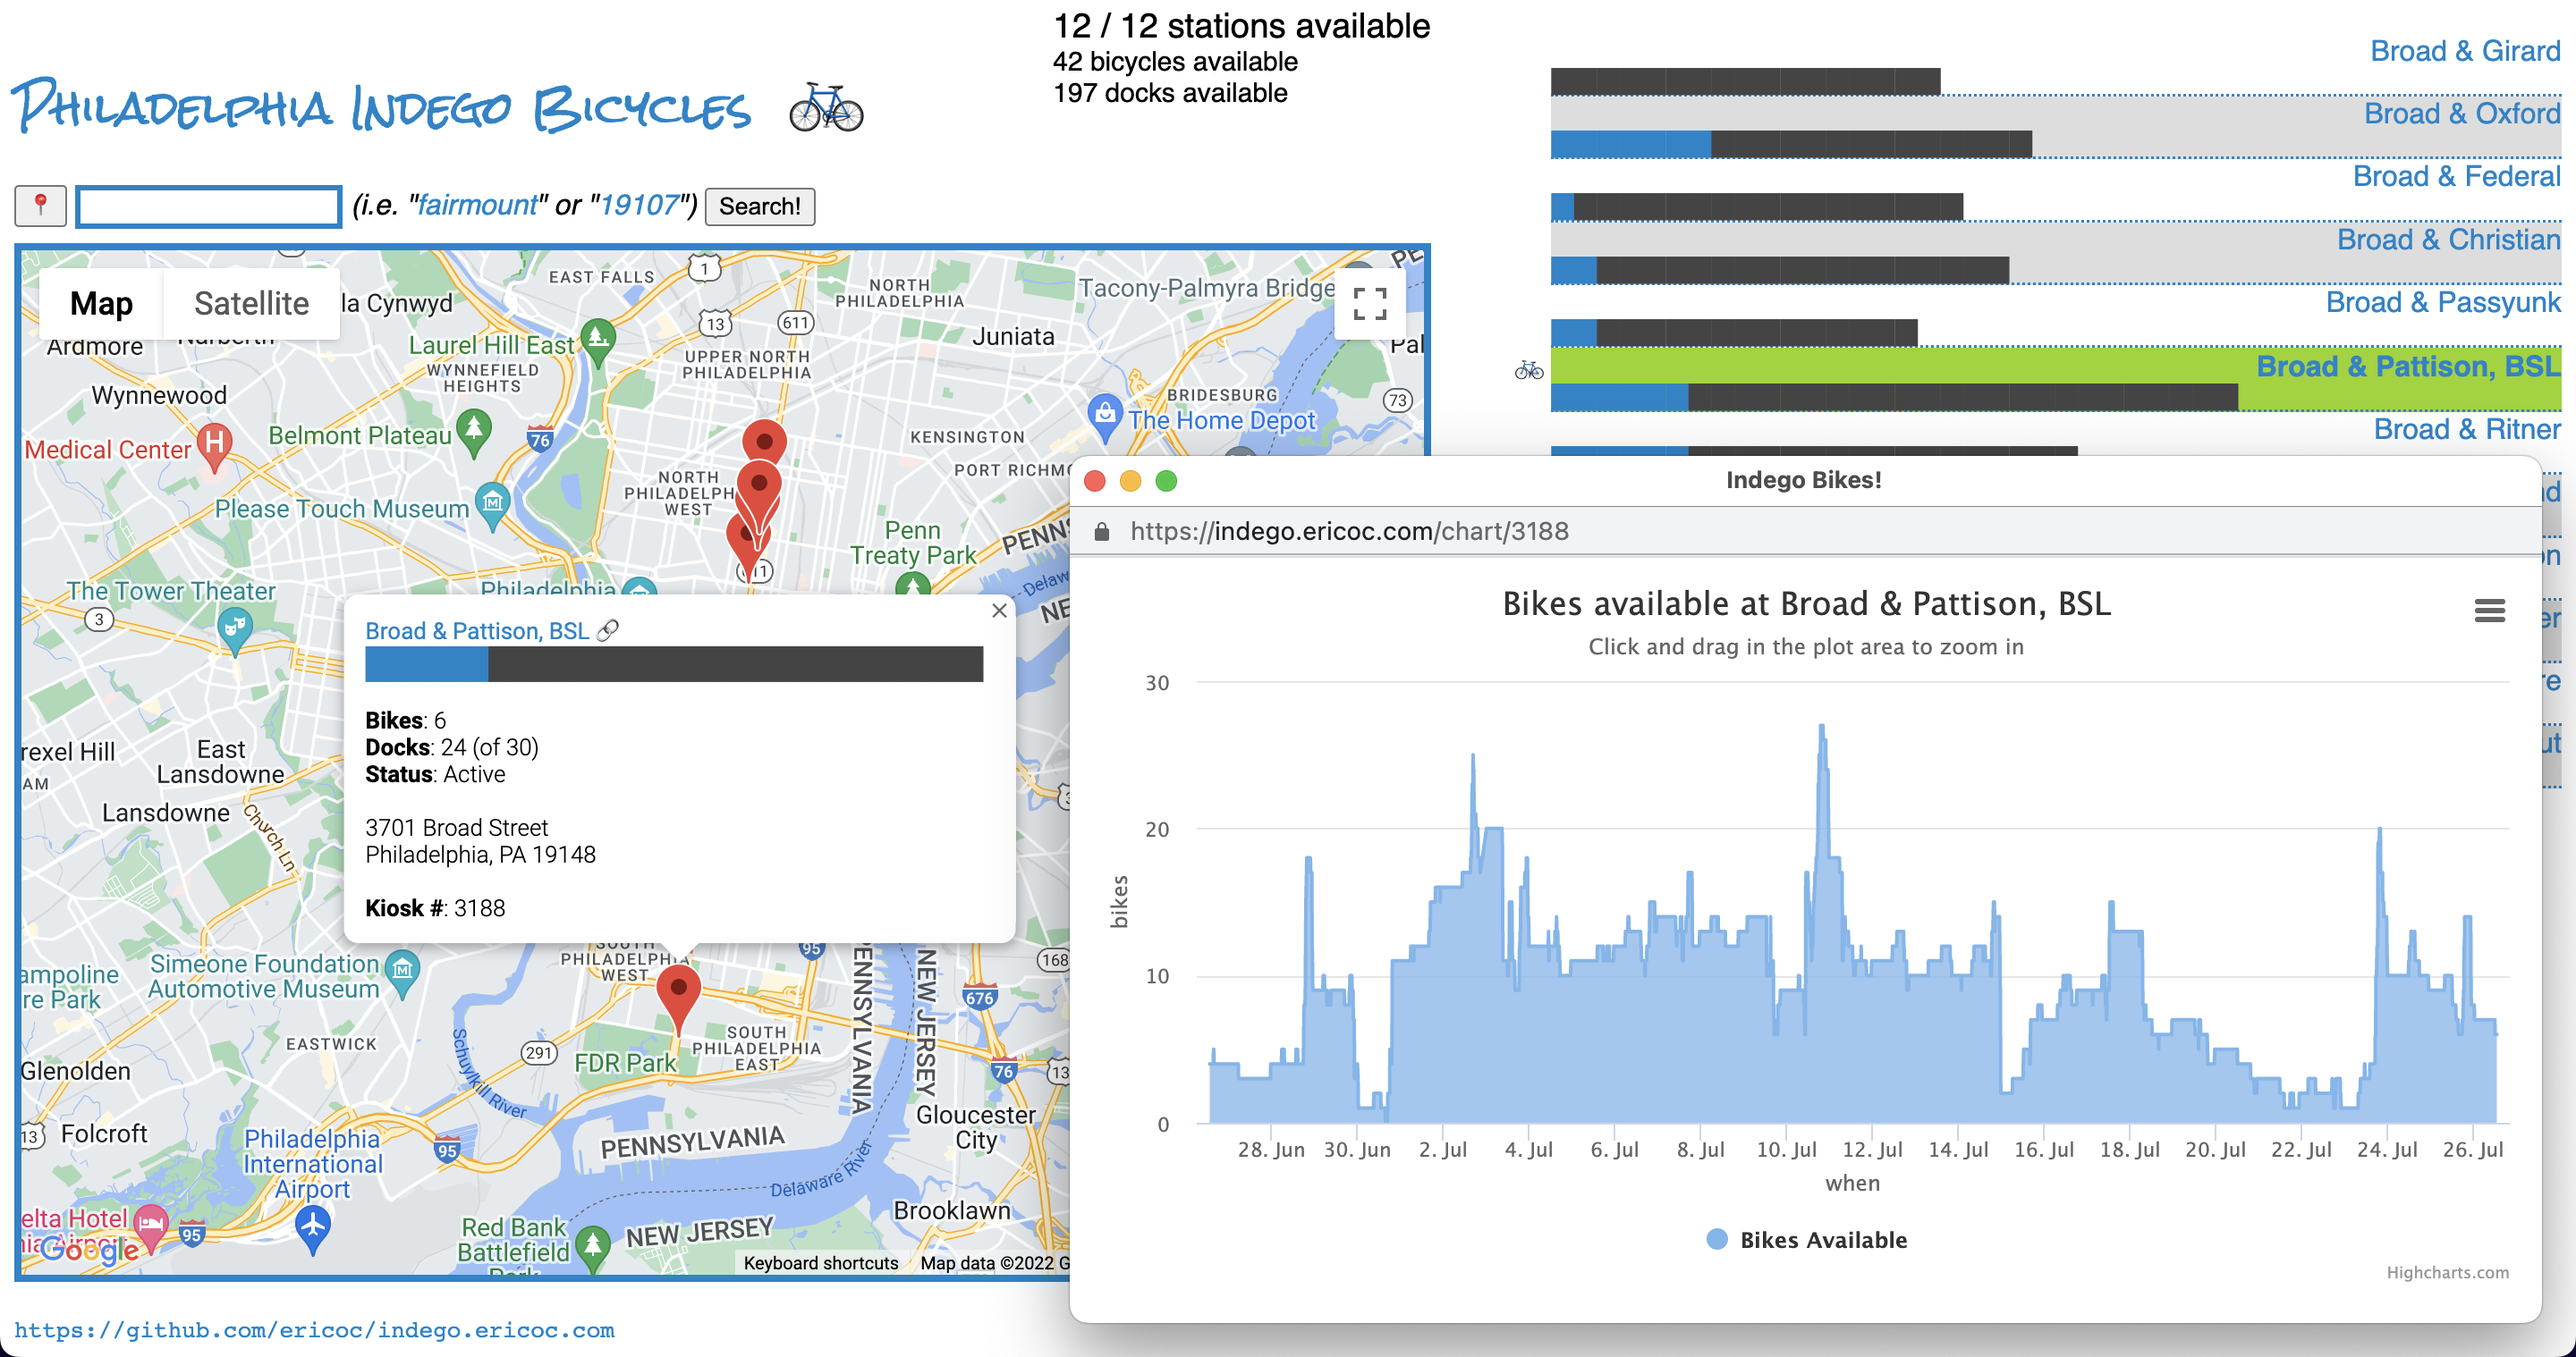
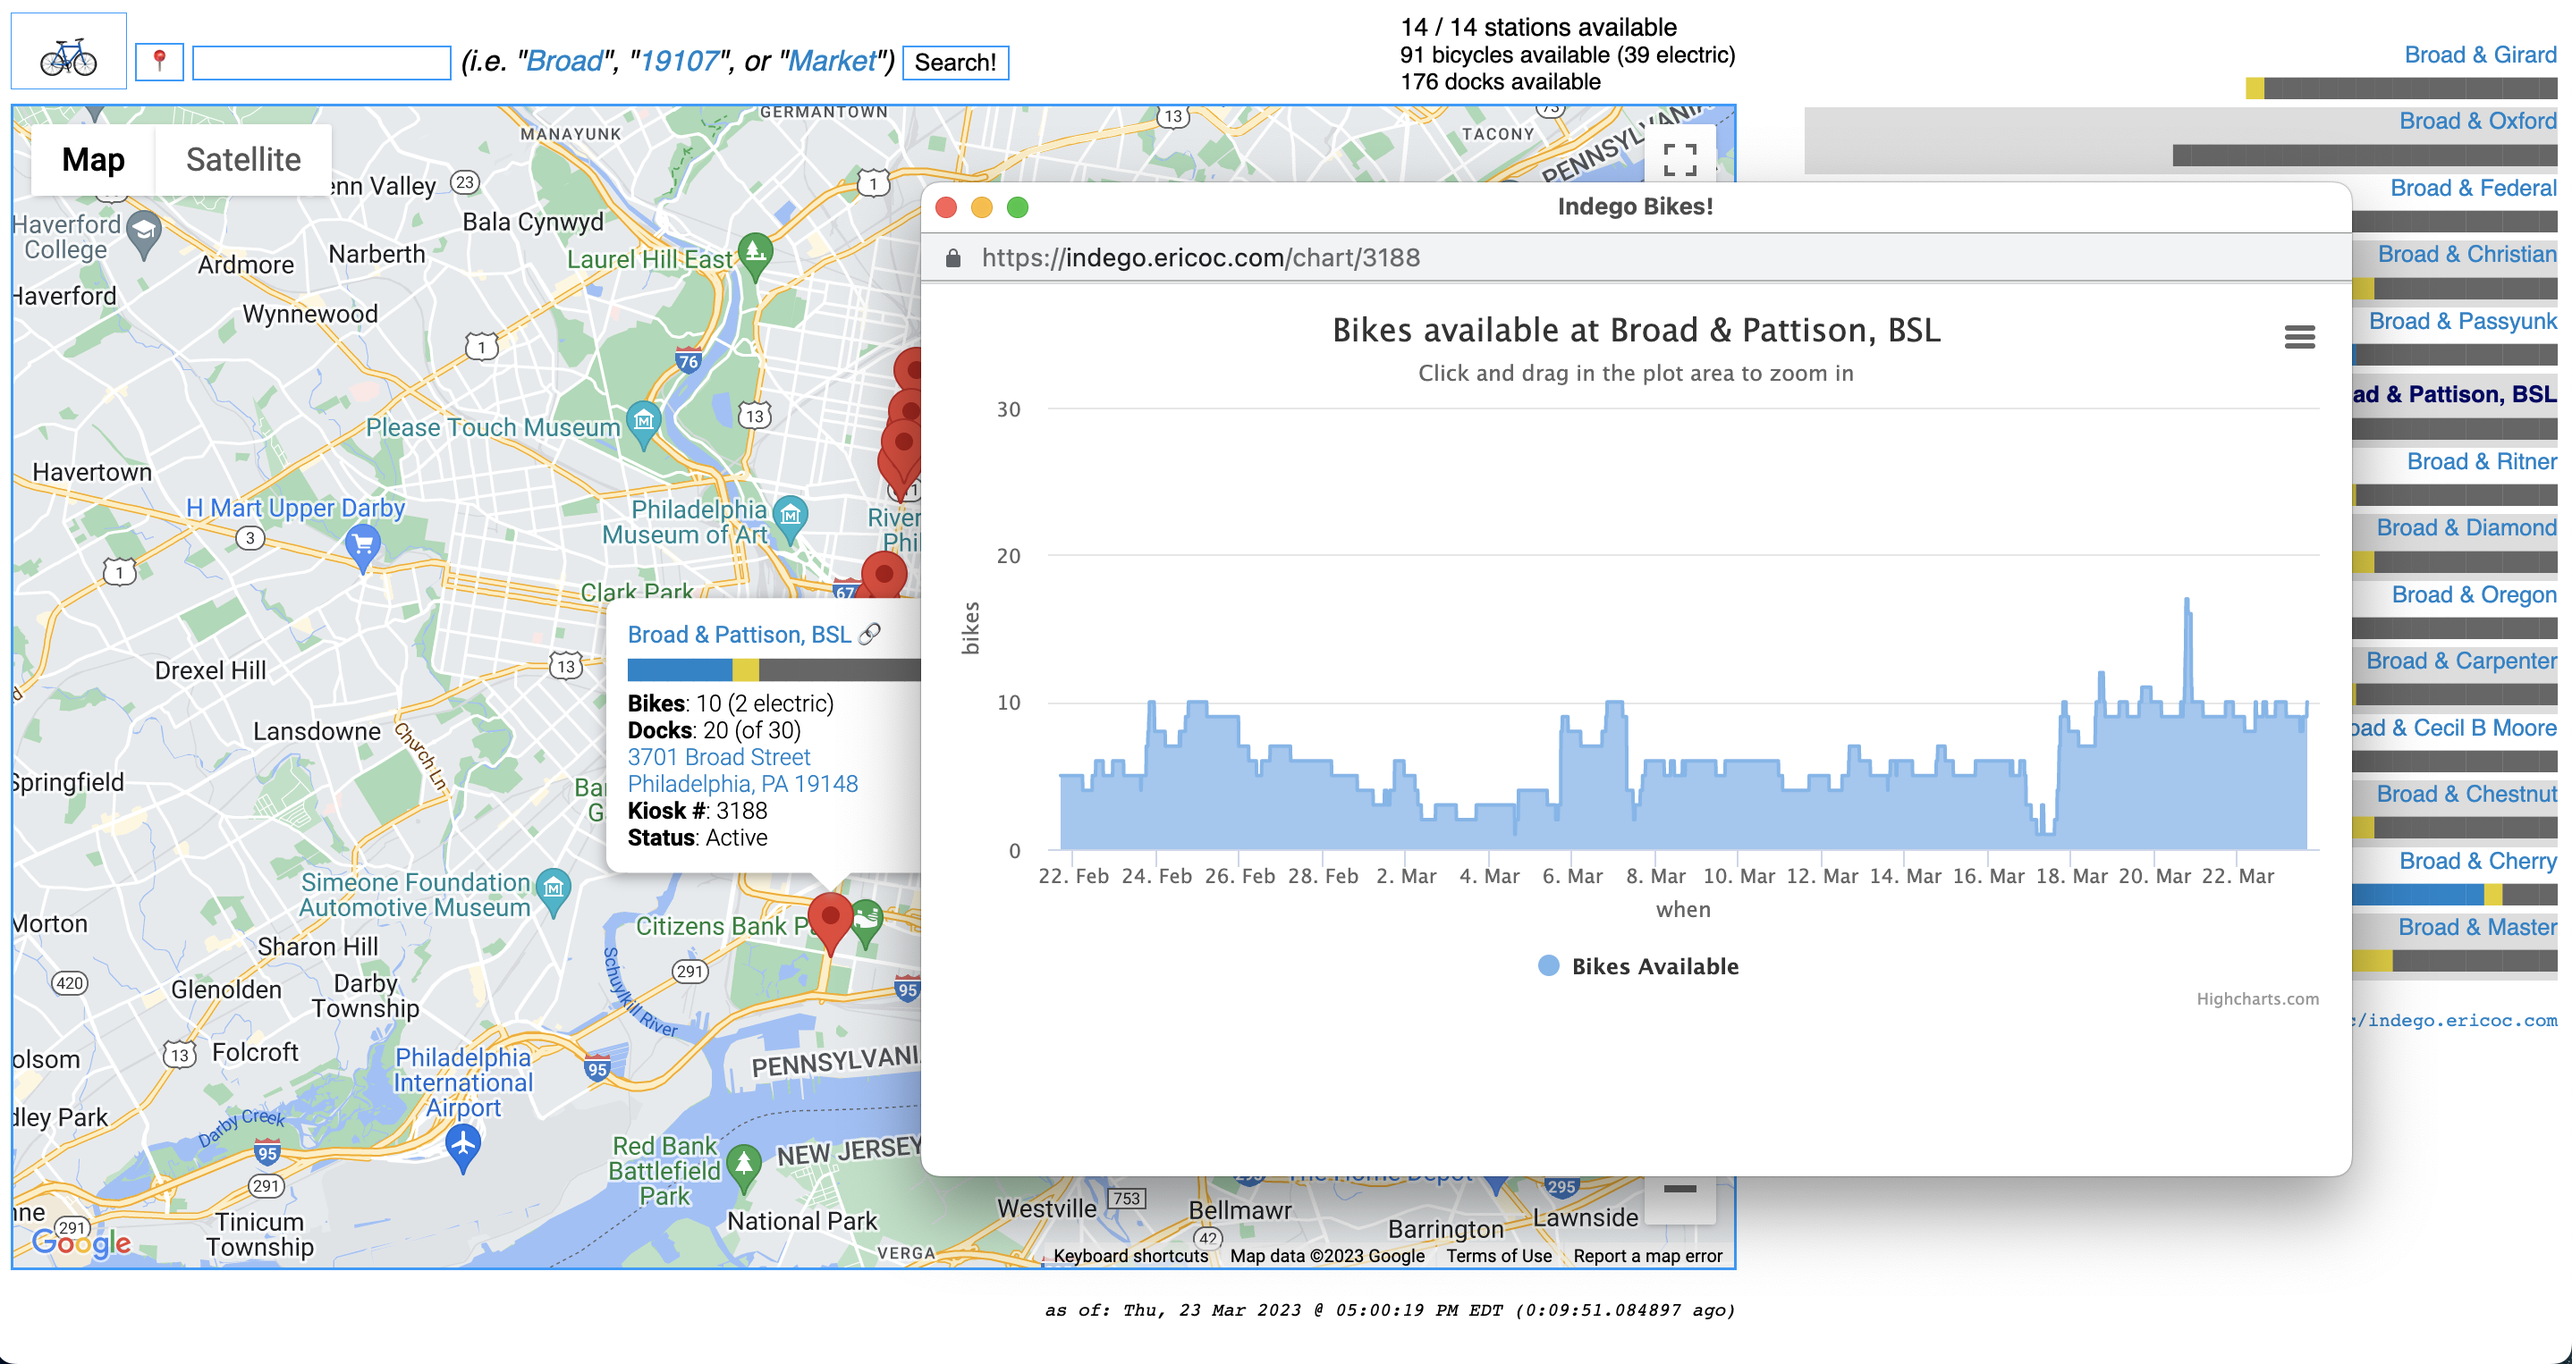
fresh screenshots and readme tweaks

diff --git a/readme.md b/readme.md
@@ -40,7 +40,7 @@ which stores a complete copy of the HTTPS JSON response from the API every ten (
 - This prevents a slow page load and response time (i.e. poor performance) on every request to my website
 - The unfortunate side effect is that I may be showing stale data, up to ten minutes old, assuming everything is working correctly
 
-I have been storing the data in PostgreSQL since mid-2019 and have over 168,000 rows since that time (as of mid-2022, approx. ~3 years):
+I have been storing the data in PostgreSQL since mid-2019 and have over 202,000 rows since that time (as of mid-2023, approx. ~4 years):
 
 ```
 indego=# select now();
@@ -61,8 +61,7 @@ indego=#
 
 ### Maps
 
-The stations are mapped using their GPS coordinates from the GeoJSON response in combination with the:
-- [Google Maps JavaScript API](https://developers.google.com/maps/documentation/javascript/)
+The stations are mapped using their GPS coordinates from the GeoJSON response in combination with the [Google Maps JavaScript API](https://developers.google.com/maps/documentation/javascript/).
 
 The button to locate yourself on the map relies upon the JavaScript Geolocation API:
 - [https://www.w3.org/TR/geolocation/](https://www.w3.org/TR/geolocation/)
@@ -70,8 +69,7 @@ The button to locate yourself on the map relies upon the JavaScript Geolocation 
 
 ### Charts
 
-A neat little "Easter Egg":
-- If you click on the blocky chart within one of the Google Maps info windows on a map marker,
+If you click on the blocky chart within one of the Google Maps info windows on a map marker,
 you should receive a pop-up chart showing available bikes at that station for the past thirty (30) days.
   - You can try it out here:
     * https://indego.ericoc.com/search/3022#3022
@@ -80,8 +78,8 @@ you should receive a pop-up chart showing available bikes at that station for th
     * https://indego.ericoc.com/chart/30th
 
 These charts are created using a JavaScript library called [Highcharts](http://www.highcharts.com/).
-I was even lucky enough to write a post for the [Highcharts Blog](https://www.highcharts.com/blog/) at:
-- [https://www.highcharts.com/blog/products/highcharts/250-tracking-bike-share-usage-in-philadelphia/](https://www.highcharts.com/blog/products/highcharts/250-tracking-bike-share-usage-in-philadelphia/)
+
+I was lucky enough to write a post for the [Highcharts Blog](https://www.highcharts.com/blog/) at [https://www.highcharts.com/blog/products/highcharts/250-tracking-bike-share-usage-in-philadelphia/](https://www.highcharts.com/blog/products/highcharts/250-tracking-bike-share-usage-in-philadelphia/)
 
 ### Questions?
 
